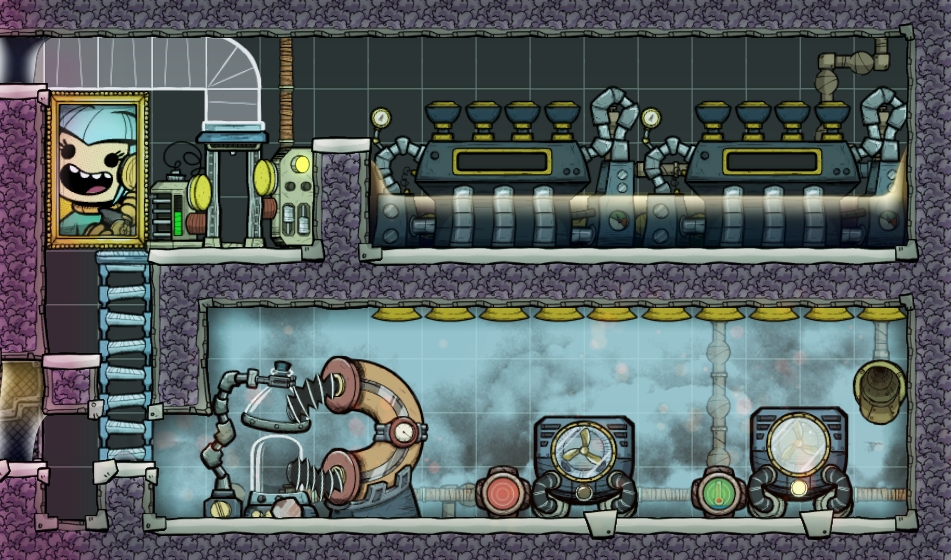
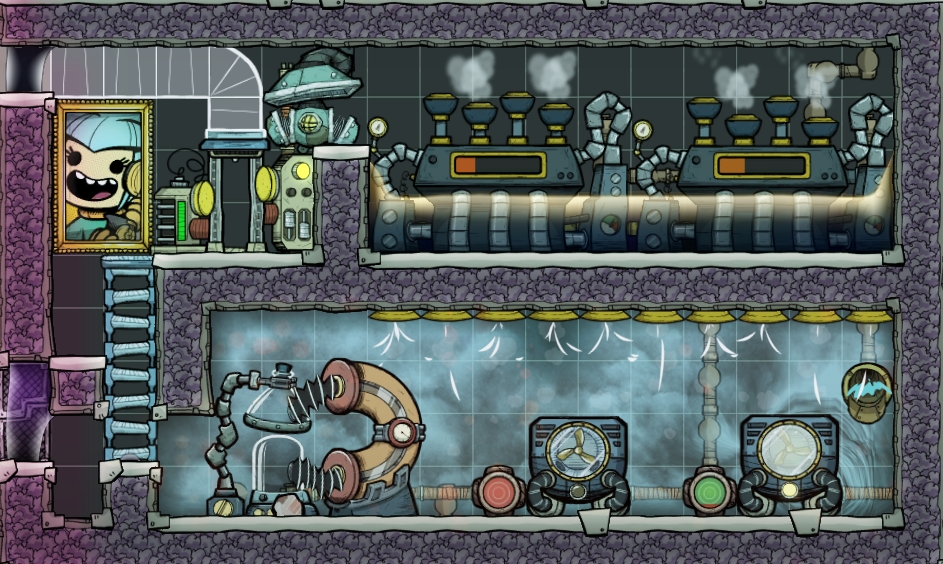
docs: 更新

diff --git a/docs/geyser/jinshu.md b/docs/geyser/jinshu.md
@@ -5,16 +5,19 @@
 - 蒸汽控制在每格 50kg - 100kg
 - 发热量大的可以增加蒸汽量，但是不能超过 150kg，超压
 
-| 火山类型       | 蒸汽机数量 | 灌水量           |
-| :------------- | :--------- | :--------------- |
-| 金、钨火山     | 1 台       | 1000 千克水      |
-| 铁、铜、钴火山 | 1~2 台     | 2000 千克水      |
-| 铝火山         | 2~3 台     | 2000~3000 千克水 |
+| 火山类型 | 全周期平均产率       | 比热容 | 相对金的热量倍数 | 推荐蒸汽机数量 |
+| :------- | :------------------- | :----- | :--------------- | :------------- |
+| 金火山   | 约 200~400 千克/周期 | 0.129  | 1.0 倍（基准）   | 1 台           |
+| 钨火山   | 约 200~400 千克/周期 | 0.134  | 1.50 倍          | 1 台           |
+| 铜火山   | 约 200~400 千克/周期 | 0.386  | 2.51 倍          | 1~2 台         |
+| 钴火山   | 约 200~400 千克/周期 | 0.420  | 2.74 倍          | 1~2 台         |
+| 铁火山   | 约 200~400 千克/周期 | 0.449  | 3.34 倍          | 1~2 台         |
+| 铝火山   | 约 200~400 千克/周期 | 0.910  | 4.52 倍          | 2~3 台         |
 
 ## 金火山
 
 - 12 x 11
-- 隔热门版
+- 热量很低
 
 ![](/imgs/geyser/jin5.jpg)
 

diff --git a/docs/build/kongwen.md b/docs/build/kongwen.md
@@ -37,6 +37,9 @@
 
 ### 外挂降温
 
+- 尽量用石脑油封门，后期高温物容易炸门
+- 抽气泵保险位，可以等炸了再建
+
 ![](/imgs/tc/waigua1.jpg)
 
 - 净水器不能放蒸气室，输出水为复合温度（污染水+介质），高温水容易爆管
